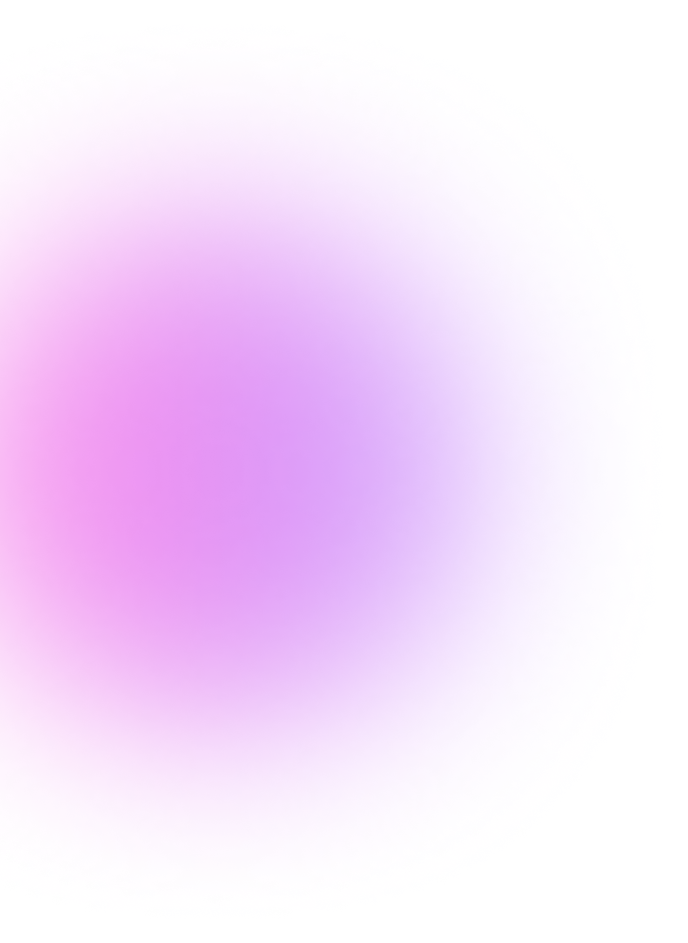
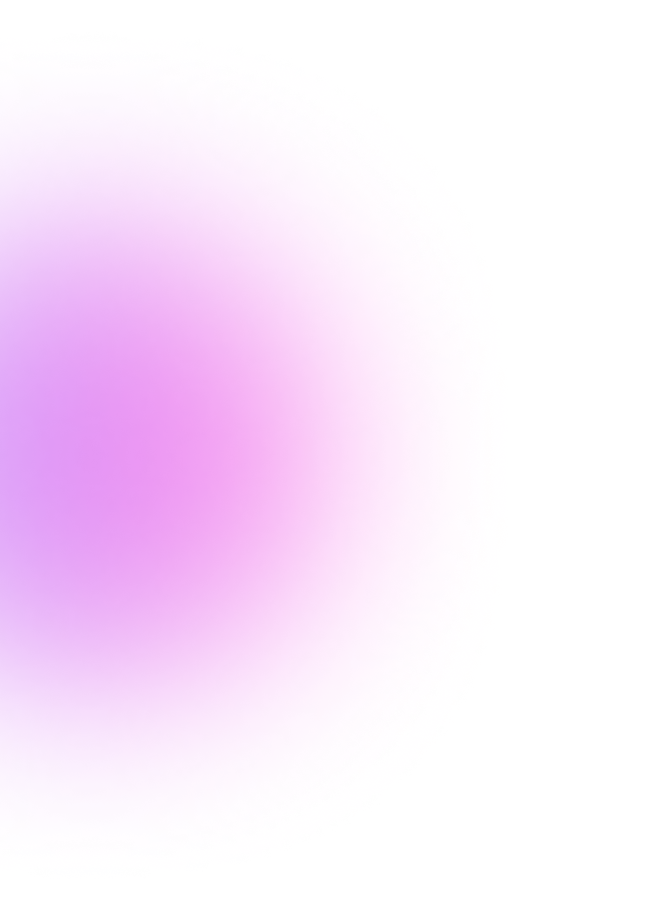
Updated forms

Changed region(s): [[0.3125, 0.2151, 0.7812, 0.7684], [0.0, 0.4303, 0.0312, 0.5532]]

diff --git a/src/common/NewsletterBanner.jsx b/src/common/NewsletterBanner.jsx
@@ -49,7 +49,7 @@ const NewsletterBanner = () => {
               className="flex-1 px-4 py-3 bg-transparent text-white placeholder-gray-400 outline-none"
             />
             <button
-              className={`hidden sm:block mt-2 sm:mt-0 sm:ml-2 px-6 py-3 bg-gray-600 hover:bg-purple-600 transition text-white font-medium rounded-full ${loading ? "opacity-50 cursor-not-allowed" : ""
+              className={`hidden sm:block mt-2 sm:mt-0 sm:ml-2 px-6 py-3 bg-gray-600 hover:bg-[linear-gradient(270deg,#9747FF_0%,#FC18D8_97.09%)] transition text-white font-medium rounded-full ${loading ? "opacity-50 cursor-not-allowed" : ""
                 }`}
               onClick={handleSubmit}
               disabled={loading}
@@ -58,7 +58,7 @@ const NewsletterBanner = () => {
             </button>
           </div>
           <button
-            className={`block sm:hidden mt-2 sm:mt-0 mb-3 sm:ml-2 px-6 py-3 bg-gray-600 hover:bg-purple-600 transition text-white font-medium rounded-full ${loading ? "opacity-50 cursor-not-allowed" : ""
+            className={`block sm:hidden mt-2 sm:mt-0 mb-3 sm:ml-2 px-6 py-3 bg-gray-600 hover:bg-[linear-gradient(270deg,#9747FF_0%,#FC18D8_97.09%)] transition text-white font-medium rounded-full ${loading ? "opacity-50 cursor-not-allowed" : ""
               }`}
             onClick={handleSubmit}
             disabled={loading}

diff --git a/src/pages/home/Podcast.jsx b/src/pages/home/Podcast.jsx
@@ -30,8 +30,8 @@ export default function Podcast() {
   // console.log("data", data);
 
   return (
-    <section className="bg-black py-12">
-      <div className="relative mx-auto container xl:max-w-[1440px] px-4 ">
+    <section className="relative py-12">
+      <div className=" mx-auto container xl:max-w-[1440px] px-4 ">
         {/* Heading */}
         <div className="relative z-[2]">
         <h2 className="text-center text-4xl lg:text-5xl font-extrabold mb-10">
@@ -57,9 +57,8 @@ export default function Podcast() {
         </div>
         </div>
        {/* <div className="absolute top-0 right-0 w-80 h-80 bg-gradient-to-br from-purple-900 via-fuchsia-700 to-black" /> */}
-       <img src="/right.png" width={1000} height={1000}
-       className="absolute right-[-55px] top-[0px] w-[500px] h-[500px]"/>
       </div>
+       <div className="absolute inset-0 bg-[url('/bg-test.png')] bg-no-repeat bg-center bg-cover z-[-1]" />
     </section>
   );
 }

diff --git a/src/pages/home/Testimonials.jsx b/src/pages/home/Testimonials.jsx
@@ -39,11 +39,7 @@ const testimonials = [
 
 export default function Testimonials() {
   return (
-    <section className="relative bg-[#1C1C1C] mx-auto container xl:max-w-[1440px] py-16 px-6 md:px-16 lg:px-24 overflow-hidden">
-      {/* Gradient Background */}
-      <div className="absolute top-0 left-0 w-72 h-72 bg-gradient-to-tr from-[#9747FF] to-[#FC18D8] rounded-full opacity-20 blur-3xl -z-10"></div>
-      <div className="absolute bottom-0 right-0 w-72 h-72 bg-gradient-to-tr from-[#9747FF] to-[#FC18D8] rounded-full opacity-20 blur-3xl -z-10"></div>
-
+    <section className="relative mx-auto container xl:max-w-[1440px] py-16 px-6 md:px-16 lg:px-24 overflow-hidden">
       {/* Heading */}
       <div className="text-center mb-12">
         <h2 className="text-3xl md:text-4xl font-bold text-white">

diff --git a/src/pages/home/Guide.jsx b/src/pages/home/Guide.jsx
@@ -37,7 +37,8 @@ const guides = [
 
 export default function Guide() {
   return (
-    <section className="bg-[#1C1C1C] mx-auto container xl:max-w-[1440px] py-16 px-6 md:px-16 lg:px-24">
+    <div className="bg-[#1C1C1C]">
+    <section className="mx-auto container xl:max-w-[1440px] py-16 px-6 md:px-16 lg:px-24">
       <div className="max-w-7xl mx-auto text-center mb-12">
         <h2 className="text-3xl md:text-4xl font-bold text-white">
           FREE{" "}
@@ -97,5 +98,6 @@ export default function Guide() {
         </button>
       </div>
     </section>
+    </div>
   );
 }

diff --git a/src/pages/home/Learn.jsx b/src/pages/home/Learn.jsx
@@ -36,7 +36,8 @@ const learnItems = [
 
 export default function Learn() {
   return (
-    <div className="bg-[#1E1E1E] mx-auto container xl:max-w-[1440px] px-4">
+    <div className="bg-[#1E1E1E] ">
+    <div className="mx-auto container xl:max-w-[1440px] px-4">
       <section className="text-white py-16 px-6 md:px-16 lg:px-24">
         {/* Heading */}
         <div className="text-center mb-12">
@@ -72,6 +73,7 @@ export default function Learn() {
           ))}
         </div>
       </section>
+    </div>
     </div>
   );
 }
